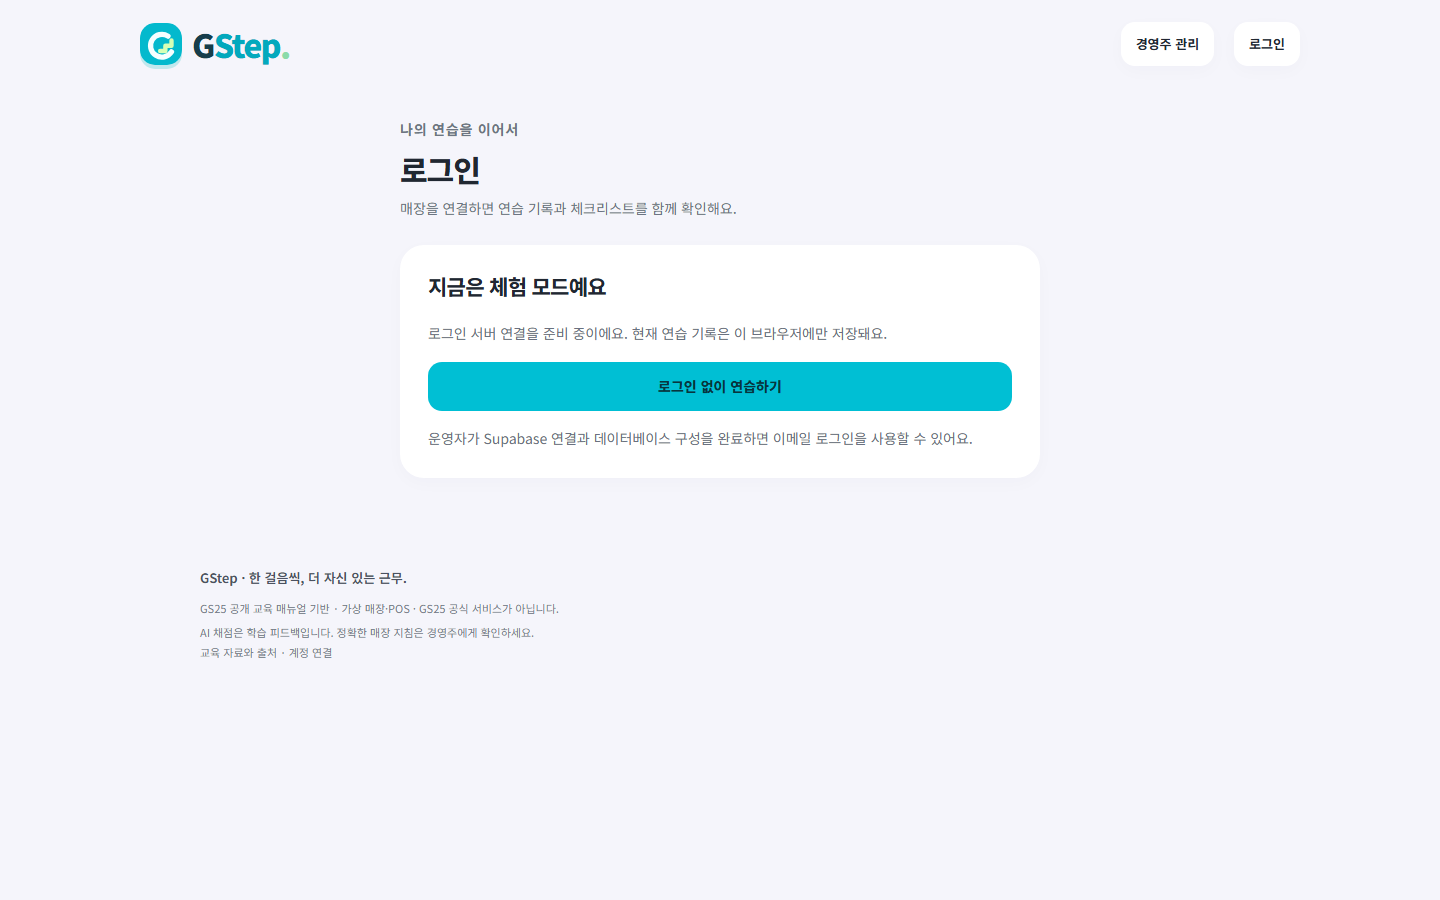
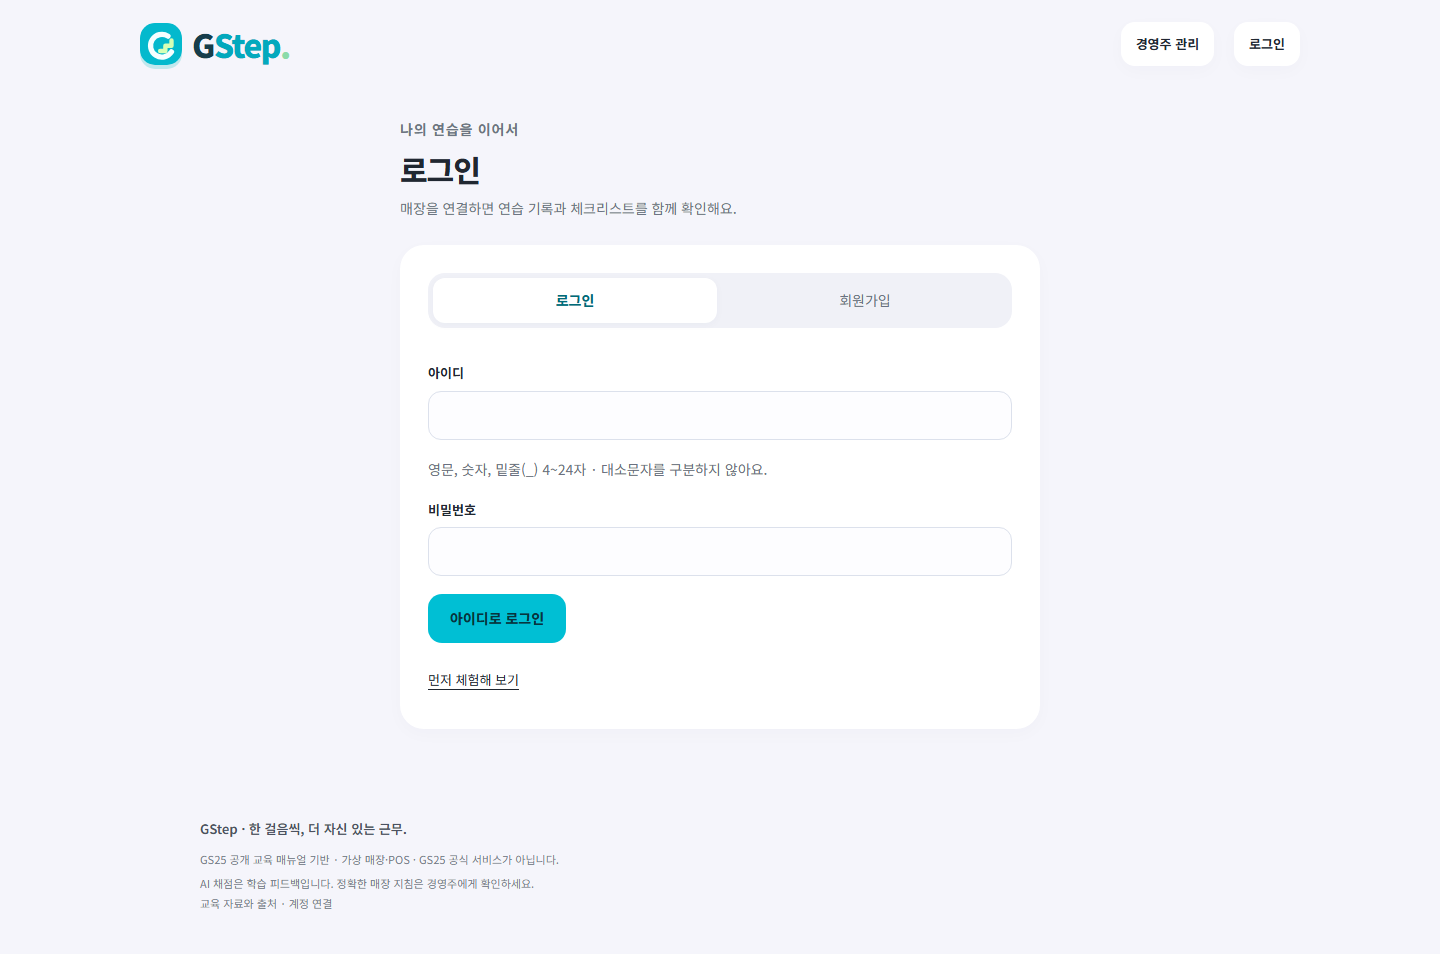
Record GStep live account and deployment verification

diff --git a/progress.md b/progress.md
@@ -408,3 +408,16 @@
 - Verified existing Vercel project gs-hack and Git origin main. Added only NEXT_PUBLIC_SUPABASE_URL/PUBLISHABLE_KEY to production env via stdin without values in logs. Deployment/publication still pending. User-owned crawl audit remains untracked/untouched.
 - Timing: original runStartedAt2026-09-21T09:05:58.258Z; lastCheckpointAt:2026-09-22T00:13:55.6630724+09:00; measured active interval:29.03 minutes; cumulative activeWorkMinutes:158.55; excludedPauseMinutes retain historical at least1.29 plus known stopped gap21:36→23:44 and earlier unknown gaps. Parallel agent time not double counted. No waiting to reach420minutes.
 - Exact next checkbox: Task19 Step5 live isolated-account persistence, then Step6 publish/deploy and actual account browser checks. App source frozen; no local app server running. No unresolved local test failures.
+### Iteration34 — 2026-09-22T00:22:49.2664686+09:00 — GStep published and live account flows verified
+
+- Published source f3425bffe1790e929b9e380e703f78e337a9bf27 to existing origin/main; git ls-remote confirms exact SHA. Vercel deploy production with forced-demo build/live runtime succeeded. dpl_6TC3FWH3HYEu9uaU74fbFKQs69gL independently inspected READY; immutable https://gs-hack-nrmg1a8d3-hee1-99s-projects.vercel.app ; production https://gs-hack-seven.vercel.app . Supabase public settings active in actual bundle; secrets stayed ignored/server-only.
+- Actual Supabase SDK:10core checks PASS, using4synthetic accounts/2teststores/2initial records. Role metadata forgery ignored, cross-store reads/writes denied, owner settings shared, staff checklist and record persistence survive independent login. User applied original reviewed SQL and disabled email confirmation. No real user data or email.
+- Deployed browser: navigation/reference4/4pass27.8s; direct route/refresh/mobile clearance. Account flow7checks pass: ID/password noemail, logout/relogin/session refresh, crew owner-page deny,6stepcourse with actualGemini written100/final100, remote completed record acknowledged, checklist save/reload, separate ownerA sees actualstaffname+answers+score, ownerB cannot see A. Screenshot selection initially used an overstrict wrapped-label matcher; observed DOM confirmed selector-only issue, corrected script then passed, no app change.
+- Actual deployed customer chat: exactly2Gemini calls, reply and evaluation both live;70point four-criterion result remotely saved and restored aftercrewreload. Owner's separate browser sees70points,criteria,transcript. Initial owner-chat response matcher captured quiz-only bridge GET; corrected to unfiltered dashboard GET and read-only follow-up passed with no extraAI. Parent/agent personally inspected mobilequiz/chat and ownerquiz/chat captures, pageerrors0.
+- Actual UI signup additionally verified in6.8s: ID/password only -> immediateauthenticated onboarding -> createownerstore -> logout -> passwordlogin. One additional synthetic account/store; aggregate5accounts/3stores. Ignored local credentials only; no password screenshots/traces. Screenshots gstep-account-*.png contain only synthetic identities.
+- Actual deployed Gemini standalone smokes: chatreply+finish200/live, generalQA200/live/no fabricatedsources, manualQA200/live/sourcevalid. Alongside browsergrade and browserchat,7bounded real deployment calls; local4actualcalls recorded separately inIteration33. No server errors or fake live claims.
+- Bounded residual review exception: optional live stale-version gstep_save_content probe timed out20seconds/status0 on3direct executions. Commands node .vercel/live-supabase.mjs; node .vercel/live-supabase-diagnose.mjs; same diagnose command with SDK retrydisabled. Rootcause not established, SDK internal retry count unknown. No request-before/after comparison, so absence of mutation is not claimed. Stopped this investigation after3same failures per rule; no speculative change or further retry. Exact SQL local conflict gate passed; live concurrency response remains explicitly unverified, separate from successful normal writes and mandatory role/store gates. Documented in supabase/README.md and matrix.
+- Final local source gate remains125unit/integration, build,56fullE2E. Postgate changes only docs/evidence. Secret scan1509files0leaks before sourcepublication; staged env excluded. Supabase fixture files all ignored. User-owned docs/evidence/gs25-training-crawl-audit.json preserveduntracked. No app server running; all agents completed. App browser open request queued, not falsely claimed visible.
+- Outcome: completed-before-duration-target for requested Task19 delivery, with the bounded additional concurrency probe recorded as unverified. All requested feature/release gates verified; no remaining required user action. No artificial waiting to420minutes or cosmetic scope expansion.
+- Timing: original runStartedAt2026-09-21T09:05:58.258Z; lastCheckpointAt:2026-09-22T00:22:49.2664686+09:00; measured active interval:8.89 minutes; cumulative activeWorkMinutes:167.44; excludedPauseMinutes retain historical at least1.29 plus stopped gaps. Parallel time not added twice. Iteration33 subtraction type mismatch was corrected using DateTimeOffset on both operands and exact recorded timestamp; no estimated duration.
+- Next checkbox: none in requested scope. Final action: evidence-only closure commit/push and verifyremoteSHA. No application redeploy required for documentation/screenshots. Optional stale-version live probe remains stopped with3failures, requires fresh evidence before further diagnosis.

diff --git a/supabase/README.md b/supabase/README.md
@@ -50,3 +50,11 @@ node supabase/verify-rls.mjs
 - 네트워크 단절/세션 만료 시 저장 실패를 알리고 로그인 상태에서 체험 데이터로 넘어가지 않음.
 
 공식 참고: [Supabase 이메일 가입](https://supabase.com/docs/reference/javascript/auth-signup), [비밀번호 로그인](https://supabase.com/docs/reference/javascript/auth-signinwithpassword), [RLS](https://supabase.com/docs/guides/database/postgres/row-level-security).
+
+### 실제 프로젝트 검증 — 2026-09-22
+
+이후 합성 계정 4개, 분리된 검증용 매장 2개, 퀴즈 기록 2개로 SDK 검증 10개를 통과했습니다. 인증 확인 없이 가입, 역할 메타데이터 위조 무시, 매장·사용자 읽기 분리, 경영주 설정 공유, 직원/다른 매장의 설정 쓰기 거부, 체크리스트 영속성, 기록 사용자·매장 위조 거부, 경영주 조회, 독립 재로그인 후 조회를 확인했습니다. 계정은 `id.gstep.invalid` 예약 주소를 사용하며 실제 사용자 자료나 메일을 사용하지 않았습니다. 검증용 자격 증명은 Git에서 제외된 로컬 파일에만 보관합니다.
+
+배포된 실제 브라우저에서도 아이디 가입 → 즉시 로그인 → 새 매장 생성 → 로그아웃·재로그인을 확인했습니다. 이 가입 검증으로 합성 계정·매장을 각각 하나 추가했습니다(합계 5계정·3매장). 스토어 매니저의 실제 6단계 연습 100점과 체크리스트 상태가 원격 저장되고 독립 경영주 브라우저에 표시됐으며, 다른 매장 경영주는 조회할 수 없었습니다. Gemini 고객 대화의 응답·70점 평가도 원격 저장·새로고침 복원·경영주 조회를 확인했습니다. 캡처는 `docs/evidence/gstep-account-*.png`입니다.
+
+추가 낡은 버전 충돌 요청의 라이브 검사는 미완료입니다. `gstep_save_content`의 예상 `40001` 대신 20초 제한에서 status 0을 받았고, 세 번의 직접 실행 후 재시도를 중단했습니다. SDK 재시도 해제를 포함했지만 원인은 확정하지 않았습니다. 해당 요청의 전후 DB 비교는 수행하지 않았으므로 무변경을 입증했다고 주장하지 않습니다. 동일 SQL의 로컬 충돌 검사는 통과했으며, 정상 저장·권한 분리 라이브 성공과 이 미검증 항목을 구분합니다. 동시에 설정을 수정할 경우 새로고침 후 다시 저장하는 경로를 사용하세요.

diff --git a/task.md b/task.md
@@ -447,5 +447,5 @@ These are not part of this long-running P0 prompt. Do not automatically consume 
 - [x] **Step 2: Expand confirmed-manual training into chapters with objective and short-answer steps, deterministic time-aware scoring plus validated Gemini rubric scores, truthful grading animations and transparent final breakdown.**
 - [x] **Step 3: Implement bounded Gemini multi-turn customer scenarios and useful friendly Q&A with manual/general guidance clearly distinguished and expanded FAQs.**
 - [x] **Step 4: Implement Supabase login/signup, roles, store membership, RLS-isolated records and shared checklist/rules with explicit local demo fallback; verify auth/error/isolation code paths.**
-- [ ] **Step 5: Connect the intended Supabase project, apply reviewed schema and verify live role/store isolation and persisted records; leave blocked if connection details are unavailable.**
-- [ ] **Step 6: Integrate dashboard/navigation, run full local tests/build/E2E, inspect mobile/desktop, verify bounded real Gemini, publish and deploy available functionality; record live backend separately and all limitations/timing.**
+- [x] **Step 5: Connect the intended Supabase project, apply reviewed schema and verify live role/store isolation and persisted records; leave blocked if connection details are unavailable.**
+- [x] **Step 6: Integrate dashboard/navigation, run full local tests/build/E2E, inspect mobile/desktop, verify bounded real Gemini, publish and deploy available functionality; record live backend separately and all limitations/timing.**

diff --git a/docs/verification-matrix.md b/docs/verification-matrix.md
@@ -111,3 +111,7 @@ Historical tables above describe the initial release. The current simulator-firs
 | Store/member/record RLS and invite restrictions | supabase/verify-rls.mjs exact migration executed locally11checks; live evidence separately recorded in progress.md |
 | Final local regression |125unit/integration, production build and56desktop/mobile E2E pass; full gate after ID/password and race fix |
 | Actual remote account journey and deployed AI | Latest Task19 release checkpoint in progress.md; never inferred from local results |
+
+Task19 deployed evidence: source f3425bffe1790e929b9e380e703f78e337a9bf27, deployment dpl_6TC3FWH3HYEu9uaU74fbFKQs69gL independently READY. Deployed navigation4/4; actual ID/password signup and store creation, login/logout/refresh, six-step course with Gemini written score100 and final100, remote checklist persistence, owner A record visibility and owner B isolation verified. Actual Gemini customer chat and70point evaluation persisted across refresh and were rendered in an independent owner browser. Screenshots: gstep-account-*.png. SDK role/store checks10/10 and local exact SQL11/11 are separate evidence.
+
+Bounded additional live stale-version conflict probe remains unverified:20second status0 on three direct executions, retries stopped, root cause unknown. This is not recorded as a successful conflict response or proof of no mutation. Details in supabase/README.md and progress.md. Normal save, live isolation and primary user journeys passed.
